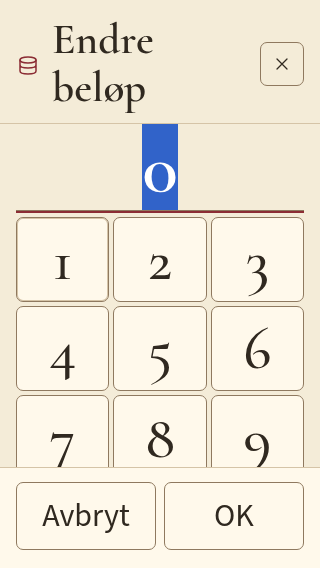
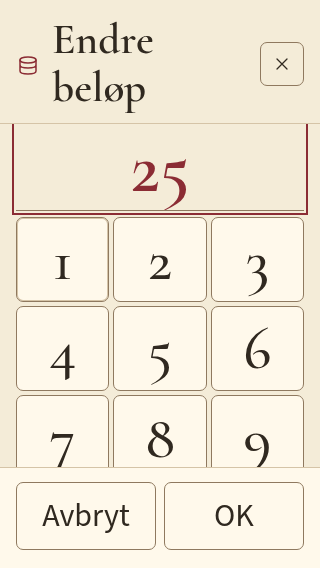
Separate manual HP correction from damage and start keypad empty

Changed region(s): [[0.0312, 0.2095, 0.9688, 0.3891]]

diff --git a/src/ui/number-change-dialog.ts b/src/ui/number-change-dialog.ts
@@ -29,21 +29,22 @@ export function numberChangeDialog(options:NumberChangeOptions) {
  const d=document.createElement('dialog');d.className='number-change-dialog';d.setAttribute('aria-labelledby','number-change-title');
  const scale=options.decimal?100:1;
  let whole=0,fraction=0,pending=false,editor:WheelKey|null=null;
+ let draft='',replaceAll=false,entryStart={whole:0,fraction:0};
  const format=(value:number)=>options.decimal?`${value<0?'−':''}${Math.floor(Math.abs(value)/100)},${String(Math.abs(value)%100).padStart(2,'0')}`:String(value);
  const labels:Record<WheelKey,string>={whole:options.decimal?(options.wholeLabel??'Heltall'):'Endring',fraction:options.fractionLabel??'Hundredeler'};
- d.innerHTML=`<form novalidate><div class="dialog-heading"><span class="number-title-icon" aria-hidden="true">${icon(options.icon??'emblem')}</span><h2 id="number-change-title" tabindex="-1">${esc(options.title??`Endre ${options.name}`)}</h2><button type="button" class="dialog-close" data-dismiss aria-label="Avbryt endring">${icon('close')}</button></div><div class="number-change-body">${wizardArt(options.icon??'emblem')}<div class="number-comparison" aria-live="polite"><span class="number-before"><small>Før</small><b></b><span data-detail></span></span><span class="number-result-arrow" aria-hidden="true">→</span><span class="number-after"><small>Etter</small><b></b><span data-detail></span></span></div><div class="number-control-area"><div class="change-wheels"></div><section class="number-entry-panel" aria-label="Skriv tallet" hidden><div class="number-entry-toolbar"><button type="button" class="number-entry-back" aria-label="Tilbake til hjul">${icon('arrow')}</button><div class="number-entry-tabs" ${options.decimal?'':'hidden'}><button type="button" data-edit-wheel="whole">${esc(labels.whole)}</button><button type="button" data-edit-wheel="fraction">${esc(labels.fraction)}</button></div></div><input class="number-entry-input" type="text" readonly inputmode="none" autocomplete="off" spellcheck="false"><div class="number-keypad" role="group" aria-label="Talltaster">${['1','2','3','4','5','6','7','8','9','±','0','⌫'].map(key=>`<button type="button" data-key="${key}" aria-label="${key==='±'?'Bytt fortegn':key==='⌫'?'Slett siffer':key}">${key}</button>`).join('')}</div></section></div><p class="number-help">Sveip opp eller ned. Trykk på midttallet for å skrive.</p><p class="number-breakdown" aria-live="polite"></p><p class="number-change-error" role="alert"></p></div><div class="dialog-actions"><button type="button" data-dismiss>Avbryt</button><button type="submit">OK</button></div></form>`;
+ d.innerHTML=`<form novalidate><div class="dialog-heading"><span class="number-title-icon" aria-hidden="true">${icon(options.icon??'emblem')}</span><h2 id="number-change-title" tabindex="-1">${esc(options.title??`Endre ${options.name}`)}</h2><button type="button" class="dialog-close" data-dismiss aria-label="Avbryt endring">${icon('close')}</button></div><div class="number-change-body">${wizardArt(options.icon??'emblem')}<div class="number-comparison" aria-live="polite"><span class="number-before"><small>Før</small><b></b><span data-detail></span></span><span class="number-result-arrow" aria-hidden="true">→</span><span class="number-after"><small>Etter</small><b></b><span data-detail></span></span></div><div class="number-control-area"><div class="change-wheels"></div><section class="number-entry-panel" aria-label="Skriv tallet" hidden><div class="number-entry-toolbar"><button type="button" class="number-entry-back" aria-label="Tilbake til hjul">${icon('arrow')}</button><div class="number-entry-tabs" ${options.decimal?'':'hidden'}><button type="button" data-edit-wheel="whole">${esc(labels.whole)}</button><button type="button" data-edit-wheel="fraction">${esc(labels.fraction)}</button></div></div><div class="number-entry-value" role="textbox" aria-readonly="true" aria-multiline="false" tabindex="0"></div><div class="number-keypad" role="group" aria-label="Talltaster">${['1','2','3','4','5','6','7','8','9','±','0','⌫'].map(key=>`<button type="button" data-key="${key}" aria-label="${key==='±'?'Bytt fortegn':key==='⌫'?'Slett siffer':key}">${key}</button>`).join('')}</div></section></div><p class="number-help">Sveip opp eller ned. Trykk på midttallet for å skrive.</p><p class="number-breakdown" aria-live="polite"></p><p class="number-change-error" role="alert"></p></div><div class="dialog-actions"><button type="button" data-dismiss>Avbryt</button><button type="submit">OK</button></div></form>`;
  document.body.append(d);
  const error=d.querySelector<HTMLElement>('.number-change-error')!,submit=d.querySelector<HTMLButtonElement>('[type=submit]')!;
- const wheelArea=d.querySelector<HTMLElement>('.change-wheels')!,panel=d.querySelector<HTMLElement>('.number-entry-panel')!,input=panel.querySelector<HTMLInputElement>('input')!;
+ const wheelArea=d.querySelector<HTMLElement>('.change-wheels')!,panel=d.querySelector<HTMLElement>('.number-entry-panel')!,entry=panel.querySelector<HTMLElement>('.number-entry-value')!;
  const delta=()=>Number(BigInt(whole)*BigInt(scale)+BigInt(fraction));
  const measure=document.createElement('canvas').getContext('2d')!;
  const fitComparison=()=>{
   if(!d.isConnected)return;
-  d.querySelectorAll<HTMLElement>('.number-comparison b').forEach(value=>{
+  d.querySelectorAll<HTMLElement>('.number-comparison b,.number-entry-value').forEach(value=>{
    value.style.fontSize='';const style=getComputedStyle(value);
    measure.font=`${style.fontWeight} ${style.fontSize} ${style.fontFamily}`;
-   const width=measure.measureText(value.textContent??'').width;
-   if(width>value.clientWidth&&value.clientWidth>0)value.style.fontSize=`${Math.max(16,parseFloat(style.fontSize)*value.clientWidth/width*.98)}px`;
+   const width=measure.measureText(value.textContent??'').width,available=value.clientWidth-parseFloat(style.paddingLeft)-parseFloat(style.paddingRight);
+   if(width>available&&available>0)value.style.fontSize=`${Math.max(16,parseFloat(style.fontSize)*available/width*.98)}px`;
   });
  };
  const comparisonObserver=new ResizeObserver(fitComparison);comparisonObserver.observe(d.querySelector('.number-comparison')!);
@@ -51,7 +52,7 @@ export function numberChangeDialog(options:NumberChangeOptions) {
  const current=(which:WheelKey)=>which==='whole'?whole:fraction;
  const valid=()=>{
   const b=changeBounds(options.original,options);
-  return (!editor||parseWheelInteger(input.value)!==null)&&delta()>=b.min&&delta()<=b.max&&Number.isSafeInteger(delta());
+  return (!editor||draft===''||parseWheelInteger(draft)!==null)&&delta()>=b.min&&delta()<=b.max&&Number.isSafeInteger(delta());
  };
  const update=()=>{
   const result=changeResult(options.original,delta());
@@ -77,21 +78,22 @@ export function numberChangeDialog(options:NumberChangeOptions) {
  const flush=()=>{
   wheels.forEach(w=>w.stop());
   if(editor===null)return true;
-  const parsed=parseWheelInteger(input.value);
-  if(parsed===null){
+  const parsed=draft===''?null:parseWheelInteger(draft);
+  if(draft!==''&&parsed===null){
    error.textContent='Skriv et heltall, med eventuelt + eller − foran. Komma og desimalpunkt kan ikke brukes i ett hjul.';
-   input.setAttribute('aria-invalid','true');return false;
+   entry.setAttribute('aria-invalid','true');return false;
   }
-  set(editor,parsed);input.removeAttribute('aria-invalid');
+  if(parsed!==null)set(editor,parsed);entry.removeAttribute('aria-invalid');
   editor=null;panel.hidden=true;wheelArea.hidden=false;drawAll();update();return true;
  };
  const edit=(which:WheelKey)=>{
   if(pending)return;
   if(editor!==null&&!flush())return;
   wheels.forEach(w=>w.stop());editor=which;
-  input.setAttribute('aria-label',labels[which]);input.value=String(current(which));
+  entryStart={whole,fraction};draft='';replaceAll=false;
+  entry.setAttribute('aria-label',labels[which]);entry.textContent='';entry.removeAttribute('aria-invalid');
   panel.querySelectorAll<HTMLButtonElement>('[data-edit-wheel]').forEach(b=>b.setAttribute('aria-pressed',String(b.dataset.editWheel===which)));
-  wheelArea.hidden=true;panel.hidden=false;input.focus({preventScroll:true});input.select();update();
+  wheelArea.hidden=true;panel.hidden=false;entry.focus({preventScroll:true});update();
  };
  function wheel(which:WheelKey){
   const label=labels[which],shell=document.createElement('div');shell.className='change-wheel';
@@ -155,38 +157,42 @@ export function numberChangeDialog(options:NumberChangeOptions) {
  }
  wheel('whole');if(options.decimal)wheel('fraction');
 
- /** Readonly prevents the OS keyboard. Physical keys and the button pad share the same text draft. */
- const replaceSelection=(text:string,backspace=false,forwardDelete=false)=>{
+ /** A plain, non-selectable display avoids native selection handles and the OS keyboard. */
+ const syncDraft=()=>{
+  entry.textContent=draft;
+  if(draft===''){
+   ({whole,fraction}=entryStart);error.textContent='';entry.removeAttribute('aria-invalid');update();
+  }else{
+   const parsed=parseWheelInteger(draft);
+   if(parsed!==null){entry.removeAttribute('aria-invalid');set(editor!,parsed);}else update();
+  }
+  entry.focus({preventScroll:true});
+ };
+ const type=(text:string,backspace=false)=>{
   if(pending||editor===null)return;
-  let start=input.selectionStart??input.value.length,end=input.selectionEnd??start;
-  if(start===end&&backspace)start=Math.max(0,start-1);
-  if(start===end&&forwardDelete)end=Math.min(input.value.length,end+1);
-  const next=input.value.slice(0,start)+text+input.value.slice(end);
+  const next=replaceAll?text:backspace?draft.slice(0,-1):draft+text;
   if(next.length>64)return;
-  input.value=next;input.focus({preventScroll:true});input.setSelectionRange(start+text.length,start+text.length);
-  const parsed=parseWheelInteger(next);
-  if(parsed!==null)set(editor,parsed);else update();
+  draft=next;replaceAll=false;syncDraft();
  };
  const toggleSign=()=>{
   if(pending||editor===null)return;
-  input.value=input.value.startsWith('-')?input.value.slice(1):'-'+input.value.replace(/^\+/,'');
-  const parsed=parseWheelInteger(input.value);if(parsed!==null)set(editor,parsed);else update();
-  input.focus({preventScroll:true});input.setSelectionRange(input.value.length,input.value.length);
+  draft=draft.startsWith('-')?draft.slice(1):'-'+draft.replace(/^\+/,'');replaceAll=false;syncDraft();
  };
  panel.querySelectorAll<HTMLButtonElement>('[data-key]').forEach(button=>{
   button.onpointerdown=e=>e.preventDefault();
-  button.onclick=()=>button.dataset.key==='±'?toggleSign():replaceSelection(button.dataset.key==='⌫'?'':button.dataset.key!,button.dataset.key==='⌫');
+  button.onclick=()=>button.dataset.key==='±'?toggleSign():type(button.dataset.key==='⌫'?'':button.dataset.key!,button.dataset.key==='⌫');
  });
  const back=panel.querySelector<HTMLButtonElement>('.number-entry-back')!;
  back.onpointerdown=e=>e.preventDefault();back.onclick=()=>{const active=editor;if(flush()&&active)wheels.get(active)!.value.focus({preventScroll:true});};
  panel.querySelectorAll<HTMLButtonElement>('[data-edit-wheel]').forEach(button=>{button.onpointerdown=e=>e.preventDefault();button.onclick=()=>edit(button.dataset.editWheel as WheelKey);});
- input.onkeydown=e=>{
+ entry.onkeydown=e=>{
   if(pending){e.preventDefault();return;}
-  if(e.key==='Enter'){e.preventDefault();back.click();}
-  else if(e.key==='Backspace'||e.key==='Delete'){e.preventDefault();replaceSelection('',e.key==='Backspace',e.key==='Delete');}
-  else if(e.key.length===1&&!e.ctrlKey&&!e.metaKey&&!e.altKey){e.preventDefault();replaceSelection(e.key);}
+  if((e.ctrlKey||e.metaKey)&&e.key.toLowerCase()==='a'){e.preventDefault();replaceAll=true;}
+  else if(e.key==='Enter'){e.preventDefault();back.click();}
+  else if(e.key==='Backspace'||e.key==='Delete'){e.preventDefault();type('',true);}
+  else if(e.key.length===1&&!e.ctrlKey&&!e.metaKey&&!e.altKey){e.preventDefault();type(e.key);}
  };
- input.onpaste=e=>{e.preventDefault();replaceSelection(e.clipboardData?.getData('text/plain')??'');};
+ entry.onpaste=e=>{e.preventDefault();type(e.clipboardData?.getData('text/plain')??'');};
 
  let unlocked=false;
  const unlock=()=>{

diff --git a/tests/e2e/number-corrections.spec.ts b/tests/e2e/number-corrections.spec.ts
@@ -1,0 +1,41 @@
+import {test,expect} from '@playwright/test';
+import {createCharacter,fillField,finish,menuAction,wheelEntry} from './helpers';
+
+test('HP correction ignores temporary HP in both directions, clamps to HP limits and supports cancel and undo',async({page})=>{
+ await createCharacter(page);await page.getByRole('button',{name:'Combat',exact:true}).click();
+ await page.locator('[data-action="hp"]').click();await wheelEntry(page,'Endring','-5');await finish(page);
+ await page.locator('[data-action="temp-hp"]').click();await fillField(page,'Temporary HP','3');await finish(page);
+ const d=page.locator('.number-change-dialog');
+ await page.locator('[data-action="hp"]').click();await wheelEntry(page,'Endring','-5');
+ await expect(d.locator('.number-after b')).toHaveText('2');
+ await page.screenshot({path:test.info().outputPath('hp-correction-390.png')});
+ await d.getByRole('button',{name:'Avbryt',exact:true}).click();
+ await expect(page.locator('[data-action="hp"]')).toContainText('7 / 12');
+ await page.locator('[data-action="hp"]').click();await wheelEntry(page,'Endring','-5');await finish(page);
+ await expect(page.locator('[data-action="hp"]')).toContainText('2 / 12');await expect(page.locator('[data-action="temp-hp"]')).toContainText('3');
+ await menuAction(page,'Angre siste endring');await expect(page.locator('[data-action="hp"]')).toContainText('7 / 12');await expect(page.locator('[data-action="temp-hp"]')).toContainText('3');
+ await page.locator('[data-action="hp"]').click();await wheelEntry(page,'Endring','-100');await finish(page);
+ await expect(page.locator('[data-action="hp"]')).toContainText('0 / 12');await expect(page.locator('[data-action="temp-hp"]')).toContainText('3');
+ await page.locator('[data-action="hp"]').click();await wheelEntry(page,'Endring','100');await finish(page);
+ await expect(page.locator('[data-action="hp"]')).toContainText('12 / 12');await expect(page.locator('[data-action="temp-hp"]')).toContainText('3');
+ await page.reload();await page.getByRole('button',{name:'Combat',exact:true}).click();await expect(page.locator('[data-action="hp"]')).toContainText('12 / 12');await expect(page.locator('[data-action="temp-hp"]')).toContainText('3');
+});
+
+test('manual entry starts blank without selecting text; empty entry retains the wheel choice and new digits replace it',async({page})=>{
+ await createCharacter(page);await page.locator('[data-action="money"]').click();
+ const d=page.locator('.number-change-dialog');await wheelEntry(page,'GP','6');
+ await d.getByRole('button',{name:'Skriv inn GP',exact:true}).click();
+ const value=d.getByRole('textbox',{name:'GP',exact:true});
+ await expect(value).toHaveText('');expect(await value.evaluate(el=>el.tagName)).toBe('DIV');
+ await expect(d.locator('input,textarea,[contenteditable="true"]')).toHaveCount(0);
+ await expect(d.locator('.number-after b')).toHaveText('6,00');
+ await d.getByRole('button',{name:'Tilbake til hjul',exact:true}).click();
+ await expect(d.getByRole('spinbutton',{name:'Tallhjul: GP',exact:true})).toHaveAttribute('aria-valuenow','6');
+ await d.getByRole('button',{name:'Skriv inn GP',exact:true}).click();
+ await d.locator('[data-key="2"]').click();await expect(value).toHaveText('2');await expect(d.locator('.number-after b')).toHaveText('2,00');
+ await page.screenshot({path:test.info().outputPath('typed-keypad-390.png')});
+ await d.locator('[data-key="⌫"]').click();await expect(value).toHaveText('');await expect(d.locator('.number-after b')).toHaveText('6,00');
+ await value.dispatchEvent('pointerdown',{pointerType:'touch'});expect(await value.evaluate(el=>getComputedStyle(el).userSelect)).toBe('none');
+ await page.screenshot({path:test.info().outputPath('blank-keypad-390.png')});
+ await finish(page);await page.locator('[data-action="money"]').click();await expect(d.locator('.number-before b')).toHaveText('6,00');
+});

diff --git a/tests/e2e/design.spec.ts b/tests/e2e/design.spec.ts
@@ -64,7 +64,7 @@ test('corner marks clickability without a different status surface and item stat
 });
 
 test('the signed number wheel scrolls down to damage, keeps the delta and supports undo',async({page})=>{
- await fixture(page);await page.getByRole('button',{name:'Combat',exact:true}).click();await page.locator('[data-action="hp"]').click();
+ await fixture(page);await page.getByRole('button',{name:'Combat',exact:true}).click();await page.getByRole('button',{name:'Ta skade',exact:true}).click();
  const wheel=page.getByRole('spinbutton',{name:'Tallhjul: Endring',exact:true});
  await wheel.hover();await page.mouse.wheel(0,352);await expect(wheel).toHaveAttribute('aria-valuenow','-8');
  await page.waitForTimeout(300);await expect(wheel).toHaveAttribute('aria-valuenow','-8');
@@ -79,9 +79,9 @@ test('HP keyboard, bounds and cancellation preserve the pending transaction',asy
  await fixture(page);await page.getByRole('button',{name:'Combat',exact:true}).click();await page.locator('[data-action="hp"]').click();
  const wheel=page.getByRole('spinbutton',{name:'Tallhjul: Endring',exact:true});
  await wheel.focus();await page.keyboard.press('ArrowDown');await expect(wheel).toHaveAttribute('aria-valuenow','-1');
- await page.keyboard.press('Home');await expect(wheel).toHaveAttribute('aria-valuenow','-33');await expect(page.locator('.number-breakdown')).toContainText('HP 28 → 0');
- await page.keyboard.press('End');await expect(wheel).toHaveAttribute('aria-valuenow','10');await expect(page.locator('.number-breakdown')).toContainText('Temporary HP 5 → 5');
- await wheelEntry(page,'Endring','-1000');await expect(wheel).toHaveAttribute('aria-valuenow','-33');
+ await page.keyboard.press('Home');await expect(wheel).toHaveAttribute('aria-valuenow','-28');await expect(page.locator('.number-breakdown')).toContainText('HP 28 → 0');
+ await page.keyboard.press('End');await expect(wheel).toHaveAttribute('aria-valuenow','10');await expect(page.locator('.number-breakdown')).toContainText('Temporary HP endres ikke');
+ await wheelEntry(page,'Endring','-1000');await expect(wheel).toHaveAttribute('aria-valuenow','-28');
  await wheelEntry(page,'Endring','1000');await expect(wheel).toHaveAttribute('aria-valuenow','10');
  await page.keyboard.press('Escape');expect((await readState(page)).hp).toEqual({current:28,max:38,temp:5});
 });
@@ -153,7 +153,7 @@ test('journal components remain readable without overflow at 320/390 pixels and 
 });
 
 test('HP save failure preserves the chosen amount and retry commits once; wheel selection stays visible',async({page})=>{
- await fixture(page);await page.getByRole('button',{name:'Combat',exact:true}).click();await page.locator('[data-action="hp"]').click();
+ await fixture(page);await page.getByRole('button',{name:'Combat',exact:true}).click();await page.getByRole('button',{name:'Ta skade',exact:true}).click();
  const slider=page.getByRole('spinbutton',{name:'Tallhjul: Endring',exact:true});
  await wheelEntry(page,'Endring','-8');await expect(slider).toHaveAttribute('aria-valuenow','-8');
  await page.evaluate(()=>{

diff --git a/tests/e2e/number-review.spec.ts b/tests/e2e/number-review.spec.ts
@@ -8,9 +8,9 @@ test('review: keypad replaces the wheels without moving the comparison or action
  const before=await d.locator('.number-comparison,.dialog-actions').evaluateAll(els=>els.map(e=>e.getBoundingClientRect().y));
  await d.getByRole('button',{name:'Skriv inn GP',exact:true}).click();
  await expect(d.locator('.change-wheels')).toBeHidden();
- const input=d.getByRole('textbox',{name:'GP',exact:true});await expect(input).toHaveAttribute('readonly','');
+ const input=d.getByRole('textbox',{name:'GP',exact:true});await expect(input).toHaveAttribute('aria-readonly','true');
  for(const digit of ['1','2'])await d.locator('.number-keypad').getByRole('button',{name:digit,exact:true}).click();
- await expect(input).toHaveValue('12');
+ await expect(input).toHaveText('12');
  await expect(d.locator('.number-after b')).toHaveText('12,00');
  const after=await d.locator('.number-comparison,.dialog-actions').evaluateAll(els=>els.map(e=>e.getBoundingClientRect().y));expect(after).toEqual(before);
  await d.getByRole('button',{name:'Tilbake til hjul',exact:true}).click();
@@ -18,7 +18,7 @@ test('review: keypad replaces the wheels without moving the comparison or action
  await d.getByRole('button',{name:'Skriv inn CP',exact:true}).click();
  await context.grantPermissions(['clipboard-read','clipboard-write']);await page.evaluate(()=>navigator.clipboard.writeText('-20'));
  await d.getByRole('textbox',{name:'CP',exact:true}).press('ControlOrMeta+A');await d.getByRole('textbox',{name:'CP',exact:true}).press('ControlOrMeta+V');
- await expect(d.getByRole('textbox',{name:'CP',exact:true})).toHaveValue('-20');await finish(page);
+ await expect(d.getByRole('textbox',{name:'CP',exact:true})).toHaveText('-20');await finish(page);
  await page.locator('[data-action="money"]').click();await expect(d.locator('.number-before b')).toHaveText('11,80');
 });
 
@@ -85,5 +85,7 @@ test('review: narrow mobile keypad stays visible without an OS keyboard and impo
  await page.screenshot({path:test.info().outputPath('money-320-text.png')});
  await d.getByRole('button',{name:'Skriv inn GP',exact:true}).click();const input=d.getByRole('textbox',{name:'GP',exact:true});
  expect(await input.evaluate(el=>el.clientHeight>=parseFloat(getComputedStyle(el).fontSize))).toBe(true);
- await input.scrollIntoViewIfNeeded();await expect(input).toBeInViewport();await page.screenshot({path:test.info().outputPath('keypad-320-text.png')});
+ await input.pressSequentially('25');await input.scrollIntoViewIfNeeded();await expect(input).toBeInViewport();await page.screenshot({path:test.info().outputPath('keypad-320-text.png')});
+ await input.press('ControlOrMeta+A');await input.pressSequentially('90071992547409');
+ expect(await input.evaluate(el=>el.scrollWidth<=el.clientWidth+1)).toBe(true);
 });

diff --git a/src/ui/hp-control.ts b/src/ui/hp-control.ts
@@ -1,11 +1,13 @@
 import type {Character} from '../domain/model';
 import {hpAfterChange} from '../domain/derived';
 import {numberChangeDialog} from './number-change-dialog';
-/** Damage remains a single existing domain operation including temporary HP absorption. */
-export function changeHp(hp:Character['hp'],save:(delta:number)=>Promise<void>,options:{damageOnly?:boolean}={}){
- const total=hp.current+hp.temp;
- return numberChangeDialog({name:'HP',title:options.damageOnly?'Ta skade':'Endre HP',icon:'healing',original:total,min:0,max:options.damageOnly?total:Math.max(total,hp.max+hp.temp),
-  comparison:delta=>{const after=hpAfterChange(hp,delta);return {before:{value:String(hp.current),detail:`av ${hp.max} HP · ${hp.temp} temp HP`},after:{value:String(after.current),detail:`av ${hp.max} HP · ${after.temp} temp HP`}};},
-  preview:delta=>{const after=hpAfterChange(hp,delta);return `HP ${hp.current} → ${after.current} / ${hp.max} · Temporary HP ${hp.temp} → ${after.temp}. Skade bruker Temporary HP først.`;},
-  onConfirm:async(_result,delta)=>{if(delta)await save(delta);}});
+/** Manual corrections touch ordinary HP only; damage consumes temporary HP first. */
+export function changeHp(hp:Character['hp'],save:(next:Character['hp'],delta:number)=>Promise<void>,options:{damageOnly?:boolean}={}){
+ const damage=options.damageOnly??false;
+ const after=(delta:number)=>damage?hpAfterChange(hp,delta):{...hp,current:Math.max(0,Math.min(hp.max,hp.current+delta))};
+ const detail=(value:Character['hp'])=>`av ${hp.max} HP${damage?` · ${value.temp} temp HP`:''}`;
+ return numberChangeDialog({name:'HP',title:damage?'Ta skade':'Endre HP',icon:'healing',original:damage?hp.current+hp.temp:hp.current,min:0,max:damage?hp.current+hp.temp:hp.max,
+  comparison:delta=>({before:{value:String(hp.current),detail:detail(hp)},after:{value:String(after(delta).current),detail:detail(after(delta))}}),
+  preview:delta=>`HP ${hp.current} → ${after(delta).current} / ${hp.max}. ${damage?`Temporary HP ${hp.temp} → ${after(delta).temp}. Skade bruker Temporary HP først.`:'Korrigerer bare vanlig HP. Temporary HP endres ikke.'}`,
+  onConfirm:async(_result,delta)=>{if(delta)await save(after(delta),delta);}});
 }

diff --git a/src/style.css b/src/style.css
@@ -324,7 +324,7 @@ dialog.number-change-dialog{position:fixed;inset:0;max-height:none;overflow:hidd
 .number-entry-tabs{display:flex;gap:8px;flex:1;justify-content:end}
 .number-entry-tabs button{padding:4px 16px;min-width:60px;line-height:1.1}
 .number-entry-tabs [aria-pressed=true]{border-color:var(--accent);background:var(--panel);font-weight:600}
-input.number-entry-input{width:100%;min-width:0;max-width:none;height:100%;min-height:48px;padding:0 6px;border:0;border-bottom:1px solid var(--line);border-radius:0;box-shadow:none;background:transparent;color:var(--accent);font:600 2.3rem/1 Journal;text-align:center;caret-color:var(--accent);touch-action:manipulation}
+.number-entry-value{width:100%;min-width:0;max-width:none;height:100%;min-height:48px;padding:0 6px;border:0;border-bottom:1px solid var(--line);border-radius:0;box-shadow:none;background:transparent;color:var(--accent);font:600 2.3rem/1 Journal;text-align:center;display:grid;align-items:center;overflow:hidden;white-space:nowrap;user-select:none;-webkit-user-select:none;touch-action:manipulation}
 .number-keypad{display:grid;grid-template-columns:repeat(3,minmax(0,1fr));grid-template-rows:repeat(4,minmax(44px,1fr));gap:4px}
 .number-keypad button{padding:0;min-width:0;background:var(--panel);font:500 1.9rem Journal;touch-action:manipulation}
 .number-change-error{color:var(--danger);font-weight:600;max-width:50ch;flex-shrink:0}.number-change-error:empty{display:none}
@@ -343,4 +343,5 @@ input.number-value::-webkit-inner-spin-button,input.number-value::-webkit-outer-
  .number-change-dialog .dialog-heading{padding-bottom:12px}
 }
 
-input.number-entry-input:focus{outline:none;box-shadow:0 2px 0 var(--accent)}
+.number-entry-value:focus{outline:none}
+.number-entry-value:focus-visible{outline:2px solid var(--accent);outline-offset:2px}

diff --git a/tests/e2e/foundations.spec.ts b/tests/e2e/foundations.spec.ts
@@ -113,13 +113,13 @@ test('damage and temp HP only in Combat, preview/cancel and atomic undo', async 
   await page.getByRole('button',{name:'Combat',exact:true}).click();
   await page.locator('[data-action="temp-hp"]').click();
   await fillField(page,'Temporary HP','5'); await save(page);
-  await page.locator('[data-action="hp"]').click();
+  await page.getByRole('button',{name:'Ta skade',exact:true}).click();
   await fillField(page,'HP-endring i tall','-8');
   await expect(page.locator('.number-breakdown')).toContainText('HP 42 → 39');
   await expect(page.locator('.number-breakdown')).toContainText('Temporary HP 5 → 0');
   await closeEditor(page);
   await expect(page.locator('[data-action="hp"]')).toContainText('42 / 42');
-  await page.locator('[data-action="hp"]').click();
+  await page.getByRole('button',{name:'Ta skade',exact:true}).click();
   await fillField(page,'HP-endring i tall','-8');
   await page.getByRole('button',{name:'OK',exact:true}).click();
   await expect(page.locator('[data-action="hp"]')).toContainText('39 / 42');

diff --git a/src/main.ts b/src/main.ts
@@ -33,7 +33,7 @@ import { instantiateEquipment } from './domain/catalog';
 import { historyView } from './ui/history';
 import { modifiers, signed } from './domain/modifiers';
 import { levelUpCharacter } from './domain/level-up';
-import { deriveStats, hpAfterItemChange } from './domain/derived';
+import { deriveStats } from './domain/derived';
 import { escapeHtml as esc, field, select } from './ui/html';
 import './style.css';
 
@@ -274,8 +274,8 @@ function levelUp(c: Character) {
   update();
 }
 function editHitPoints(c: Character, damageOnly=false) {
-  changeHp({...c.hp,max:effectiveMaxHp(c)},async delta=>{
-    await saveCharacter({...c,hp:hpAfterItemChange(c,delta)},'hp',`HP endret (${delta>0?'+':''}${delta})`);
+  changeHp({...c.hp,max:effectiveMaxHp(c)},async (hp,delta)=>{
+    await saveCharacter({...c,hp:{...hp,max:c.hp.max}},'hp',`HP endret (${delta>0?'+':''}${delta})`);
     message='';await refresh();
   },{damageOnly});
 }

diff --git a/docs/CHARACTER_WORKSPACE.md b/docs/CHARACTER_WORKSPACE.md
@@ -502,7 +502,7 @@ På 390 px er Før/Etter, to parallelle hjul, midttrykk og separate OK/Avbryt sy
 
 ## Før-koding-kontroll: oppfølging av #25 etter fysisk brukerreview
 
-Brukerens uttrykkelige bestilling følger gjennomgangen i denne tråden. Forrige publiserte utgave `dfe853e` er prøvd på fysisk iOS som installert webapp med eget ikon: brukeren bekrefter første trykk på knapper uten det tidligere fokusproblemet, og korrekt temp-HP-absorpsjon. Dette gjelder den prøvde utgaven og erstatter ikke ny fysisk kontroll etter følgende endringer. iOS-versjon og separat nettlesersammenligning er ikke oppgitt.
+Denne kontrollen beskriver `17cccab`. Nyere avklaring om HP-korreksjon og tom tallvisning står i neste seksjon. Brukerens uttrykkelige bestilling følger gjennomgangen i denne tråden. Forrige publiserte utgave `dfe853e` er prøvd på fysisk iOS som installert webapp med eget ikon: brukeren bekrefter første trykk på knapper uten det tidligere fokusproblemet, og korrekt temp-HP-absorpsjon. Dette gjelder den prøvde utgaven og erstatter ikke ny fysisk kontroll etter følgende endringer. iOS-versjon og separat nettlesersammenligning er ikke oppgitt.
 
 Nyeste avklaring går foran eldre betjeningsdetaljer: eget tallpanel erstatter hjulområdet ved midttrykk; systemtastaturet skal ikke skjule tallet. Spinnerbåndet og popupen skal stå stille. Etter er den viktigste tallvisningen, Før/Etter og hjultall blir større; generell Endring-etikett tas bort, mens pengekolonnene heter GP/CP. Overskriften får ikke automatisk rød fokusramme, og tastaturbetjening beholder synlig fokus. Hjelpetekstens størrelse beholdes.
 
@@ -524,3 +524,21 @@ Før/Etter og tallet i input er inspisert på faktiske Chromium-bilder. Etter er
 Båndet ligger som et eget lag utenfor scroll-sporet. Native sveip fra midttallet og utenfor hjulene er prøvd, også etterrulling fulgt av inntasting. Underliggende veivisernoder, øvrige svar, utkast og scroll beholdes. Rullelåsen gjenoppretter bare stilene den selv endret; øvrig lokal tilstand beholdes. Pinch-zoom er ikke deaktivert. Kontroller og bilder ligger i [produktbildene](reviews/number-dialog/README.md).
 
 Den tidligere positive fysiske iOS-observasjonen gjelder `dfe853e`. Nytt tallpanel og rullelås er teknisk verifisert i Chromium; fysisk etterkontroll av den nye publiserte utgaven og brukerens uttrykkelige mergegodkjenning gjenstår. Ta skade er fortsatt en parameterstyrt snarvei til HP-endring, ikke en ferdig skadekalkulator.
+
+## Før-koding-kontroll: HP-korreksjon og tom tallvisning i #25
+
+Nyeste uttrykkelige bestilling presiserer HP-pillen som manuell retting av vanlig HP, uavhengig av temp HP. Ta skade beholder skadeberegningen. Tallpanelet skal åpne tomt uten inputfelt/markering; eksisterende hjulvalg og Før/Etter beholdes frem til første inntasting. Det er fortsatt endringsbeløp som tastes, ikke en ny absoluttverdi. Dette erstatter de eldre formuleringene om HP-pillens skadeabsorpsjon og forhåndsutfylt input.
+
+| Flyt / scenario | Kilde og karaktertilstand | Forventet spilleropplevelse | Testreferanse og kjøreresultat | Mobilgjennomgang / forskjell fra referanse | Status / gjenværende avvik |
+| --- | --- | --- | --- | --- | --- |
+| Manuell HP-korreksjon | Ny brukeravklaring; Alva Fighter1 HP7/12, temp3. Klasse/subclass påvirker ikke rettingen; gjeldende effektiv maks HP er grensen | HP-pille −5 gir HP2/temp3. −100 gir HP0/temp3; +100 gir HP12/temp3. Avbryt bevarer, OK lagrer én endring, Angre gjenoppretter | `number-corrections.spec.ts`: forventningsprøve definert før koding; forhåndsvisning, Avbryt, lagring, grenser, Angre og reload bestått | Brukeren korrigerer tidligere avklaring; dette er papirarkretting, ikke D&D-skade | Bestått i Chromium; fysisk etterkontroll og mergegodkjenning gjenstår |
+| Ta skade | Samme karakter, HP7/12 og temp3; D&D 5e 2014 bruker temp HP først | −5 gir HP5/temp0; positiv endring gir ikke økning. HP/temp HP bekreftes samlet og kan angres | `number-review.spec.ts`, `design.spec.ts` og `foundations.spec.ts`: absorpsjon, grenser, Avbryt, lagringsfeil/retry og Angre bestått med Ta skade-inngangen | Ingen endring i skaderegler | Bestått i Chromium; fysisk etterkontroll og mergegodkjenning gjenstår |
+| Tom tallvisning | Heltall og GP/CP; et hjul er allerede satt til +6 | Midttrykk viser tom, ikke-redigerbar tekstflate uten markering. Før/Etter forblir uendret. Retur/OK uten inntasting beholder hjulvalget. Første siffer erstatter endringsbeløpet; ±, slett, vanlig tastatur og lim inn fungerer. Tømte siffer går tilbake til hjulvalget ved åpning | `number-corrections.spec.ts`: tom åpning, beholdt hjulvalg, første siffer, tømming og direkte OK bestått. Eksisterende tastatur/ekte lim inn/mobilprøver bestått | Ingen native input, caret eller teksthåndtak; ingen ny tastatur-overlay | Bestått i Chromium; fysisk etterkontroll og mergegodkjenning gjenstår |
+
+### Gjennomgang og kontroll av HP-korreksjon / tom tallvisning
+
+Forventningsprøvene feilet på den tidligere implementasjonen (HP ble absorbert av temp HP, og panelet viste forhåndsutfylt input). Etter endringen bestod 55 berørte nettlesertester i syv suiter, 152 enhets-/integrasjonstester og TypeScript/Vite/PWA-produksjonsbygg. Den allerede gjennomførte fulle kontrollen av `17cccab` ble gjenbrukt for øvrige uendrede flyter; ingen ny full lokal suite ble kjørt uten behov. Etter siste breddejustering av tekstvisningen bestod oppfølgingsprøvene 7/7, inkludert lange heltall ved 200 % tekst. GitHub Validate kontrollerer hele sluttcommiten før publisering.
+
+Inspiserte faktiske 390 px-mobilbilder viser HP 7 → 2 med temp HP urørt, tom tallvisning med hjulvalget +6 beholdt i Etter, og første siffer 2 som nytt endringsbeløp uten caret/tekstmarkering/håndtak. Inntastingsflaten er en vanlig ikke-selekterbar tekstvisning, ikke input/contenteditable. Tastatur, Ctrl/Cmd+A og ekte clipboard-paste er testet. 320 px / stor tekst beholder intern rulling og faste hovedknapper. Oppdaterte bilder finnes i [produktgjennomgangen](reviews/number-dialog/README.md).
+
+Normal HP-korreksjon bruker effektiv maks HP som grense, men lagrer fortsatt karakterens opprinnelige grunnmaksimum; temp HP overføres uendret. Ta skade bruker den eksisterende domenefunksjonen for temp-HP-absorpsjon. Hvile-/utstyrseffekter og øvrige skadeoperasjoner er ikke endret. Ingen datamigrering eller nye avhengigheter. Brukerens positive review av `17cccab` er ikke mergegodkjenning; disse siste to rettelsene må etterkontrolleres fysisk før brukerens uttrykkelige godkjenning.

diff --git a/docs/TESTING.md b/docs/TESTING.md
@@ -55,9 +55,9 @@ Fysisk installering og oppdatering på iPhone er ikke dekket av Chromium-testen 
 Prøv den valgte funksjons-PR-en på testadressen over. Kontroller «Testversjon» og PR/commit i appen før test. Bruk «Se etter oppdatering» / «Oppdater appen» ved en eldre utgave; bevar testkarakterene og ta gjerne backup først.
 
 1. **Vanlige tall og nestet redigering:** Meny → Rediger karakter → trykk klassenivå eller maks HP. Dialogen heter «Endre …», viser Før/Etter og starter alltid med 0. Positive tall står over, negative under. Rull, bekreft med OK, og kontroller at bare dette feltet i skjemaet endres. Avbryt/X/Escape skal bevare skjemaet uten tallendringen. Karakteren endres først når du fullfører skjemaet.
-2. **Direkte innskriving:** Trykk midttallet: hjulene erstattes av et eget tallpanel. Bruk talltastene, ± og slett; vanlig tastatur og lim inn støttes også. Pilen viser hjulene igjen, eller du kan trykke OK direkte. Verdien skal ikke skjules av systemtastaturet. Før/Etter og hovedknappene skal beholde plasseringen. Valget og Før/Etter skal stemme; desimalpunkt/komma i ett hjul skal gi forklaring. Store endringer mot klassens 1–20-grense begrenses til nærmeste gyldige resultat. Valgfrie overstyringer kan fortsatt fjernes.
+2. **Direkte innskriving:** Trykk midttallet: hjulene erstattes av et eget tallpanel med tom tallvisning uten markering/håndtak. Før/Etter beholder hjulvalget til du begynner å taste. Retur eller OK uten inntasting skal beholde valget; første siffer erstatter endringsbeløpet. Bruk talltastene, ± og slett; vanlig tastatur og lim inn støttes også. Pilen viser hjulene igjen, eller du kan trykke OK direkte. Verdien skal ikke skjules av systemtastaturet. Før/Etter og hovedknappene skal beholde plasseringen. Valget og Før/Etter skal stemme; desimalpunkt/komma i ett hjul skal gi forklaring. Store endringer mot klassens 1–20-grense begrenses til nærmeste gyldige resultat. Valgfrie overstyringer kan fortsatt fjernes.
 3. **Penger:** Trykk GP-pillen. Fra 0 gir `9 | 80` og `10 | −20` begge 9,80 GP. Fra 10,50 gir `−10 | −50` null. Hundredelshjulet har −99…99; resultatet skal aldri bli negativt. Avbryt bevarer beløpet, OK lagrer, og Angre gjenoppretter.
-4. **HP og beholdninger:** På Combat: før f.eks. 5 temp HP, åpne HP og velg −8. Temp HP brukes først; Før/Etter viser vanlig HP som hovedtall og temp HP separat. HP-pillen kan også hele; Ta skade har egen tittel og tillater bare 0 eller reduksjon, også ved direkte innskriving. OK lagrer én hendelse; Angre gjenoppretter begge delverdier. Fra en beholdningspille åpner tallet i oppslaget dialogen; verdien begrenses til 0…maks og oppslaget er tilgjengelig etterpå.
+4. **HP og beholdninger:** På Combat: med HP 7/12 og temp HP 3 skal HP-pillen med −5 gi HP 2 og beholde temp HP 3. Prøv −100 → HP 0 og +100 → HP 12; temp HP skal være uendret. Angre, og prøv Ta skade med −5: HP 5 og temp HP 0. Ta skade har egen tittel og tillater bare 0 eller reduksjon, også ved direkte innskriving; Før/Etter viser vanlig HP som hovedtall og temp HP separat. OK lagrer én hendelse; Angre gjenoppretter begge delverdier. Fra en beholdningspille åpner tallet i oppslaget dialogen; verdien begrenses til 0…maks og oppslaget er tilgjengelig etterpå.
 5. **Fysisk iPhone – fortsatt nødvendig før merge:** Gjenta langsomme/raske sveip, stopp, midttrykk og direkteinnskriving i installert **My D&D Test**, deretter i vanlig nettleser på samme telefon. Mens tallpanelet er åpent: trykk OK én gang, Avbryt én gang og X én gang i hver sin åpning. Ingen systemtastatur skal dekke panelet. Sveip også over/under/ved siden av hjulene: dialogen skal stå fast og ikke avdekke skjermen under. Hver handling skal virke på første trykk og bare én gang. Kontroller også neste handling i skjemaet, HP ved 0 og smal skjerm/stor tekst. Meld iOS-versjon, nettleser/installert modus, PR/commit og konkret feilforløp ved avvik. Brukeren bekreftet første-trykk-betjening og temp HP i `dfe853e` på installert iOS-webapp; dette er historisk fysisk bevis. Etterkontroller denne nye utgaven; Chromium-testene alene kvitterer ikke ut den nye fysiske betjeningen eller hele #26.
 
 PR-en skal stå åpen til brukeren har testet og uttrykkelig godkjent merge.

diff --git a/docs/DECISIONS.md b/docs/DECISIONS.md
@@ -393,8 +393,8 @@ Nyere avtale om brukerreview erstatter generell delegasjon av automatisk merge f
 
 Brukeren har godkjent og bestilt oppfølgingen i PR #57: Før/Etter og verdiene blir større, Etter prioriteres høyest, spinnerens tall økes litt, og det generelle Endring-navnet fjernes fra den synlige hjulflaten. Pengehjulene heter GP og CP. Hjelpetekstens størrelse beholdes. Overskriften skal ikke vise automatisk rød fokusramme; interaktive tastaturkontroller beholder synlig fokus.
 
-Midttrykk bytter hjulområdet til et eget tallpanel med tall, fortegn og slett. Dette erstatter tidligere bruk av systemtastaturet etter at fysisk iPhone-review viste at det skjulte inputfeltet. Før/Etter og hovedhandlingene beholder plasseringen. Vanlig tastatur/lim inn og grensekontroll støttes. Båndet er fast; bare tallrekken ruller og snapper. Dialogen skal ikke dras ut av viewporten eller avdekke skjermen under ved sveip utenfor hjulet. Innhold kan rulle internt når skjerm/stor tekst krever det; tilgjengelig zoom beholdes.
+Midttrykk bytter hjulområdet til et eget tallpanel med tall, fortegn og slett. Etter ny brukeravklaring åpner panelet tomt og bruker en tekstvisning uten native input/markering. Hjulvalget beholdes uten inntasting; første siffer starter et nytt endringsbeløp. Dette erstatter tidligere bruk av systemtastaturet etter at fysisk iPhone-review viste at det skjulte inputfeltet. Før/Etter og hovedhandlingene beholder plasseringen. Vanlig tastatur/lim inn og grensekontroll støttes. Båndet er fast; bare tallrekken ruller og snapper. Dialogen skal ikke dras ut av viewporten eller avdekke skjermen under ved sveip utenfor hjulet. Innhold kan rulle internt når skjerm/stor tekst krever det; tilgjengelig zoom beholdes.
 
-HP-pillen og Ta skade er ulike innganger. HP-pillen beholder skade/healing. Ta skade beholder navnet og åpner foreløpig den felles komponenten med egen tittel og bare 0/negative endringer, temp-HP-absorpsjon først og minimum 0. Den senere skadekalkulatoren er fortsatt egen funksjon; ingen ny regelmotor innføres her. Vanlig HP og temp HP presenteres separat i Før/Etter.
+HP-pillen og Ta skade er ulike innganger. HP-pillen korrigerer bare vanlig HP mellom 0 og effektiv maks HP og endrer aldri temp HP; dette erstatter den tidligere avklaringen om at HP-pillen bruker skadeabsorpsjon. Ta skade beholder navnet og åpner foreløpig den felles komponenten med egen tittel og bare 0/negative endringer, temp-HP-absorpsjon først og minimum 0. Den senere skadekalkulatoren er fortsatt egen funksjon; ingen ny regelmotor innføres her. Vanlig HP og temp HP presenteres separat i Før/Etter.
 
 Brukeren bekrefter at knapper virket på første trykk i forrige testversjon `dfe853e` på fysisk iOS som installert webapp, samt korrekt temp HP. Den nye betjeningen trenger ny fysisk kontroll. Dette er ikke mergegodkjenning; PR-en beholdes åpen.

diff --git a/README.md b/README.md
@@ -38,7 +38,7 @@ Bruk `CHROMIUM_PATH=/usr/bin/chromium npm run test:e2e` hvis Chromium allerede e
 - Egenskaper/feats med egne handlinger, ressurser og betingede skadeeffekter; strukturerte languages, proficiencies/expertise, skadeegenskaper og tilstandsimmuniteter.
 - Egen Magi-fane med kontekstfiltrerte spells/cantrips, klassebasert forberedelse og automatiske spell-slot/Pact Magic-pools. Hit Dice er enkle tellere, HP føres separat. Lang hvile viser før/etter og lagres samlet med Angre.
 - Illustrerte veivisere med ett spørsmål per skjerm, direkte Ja/Nei, terningknapper og grafisk fremdrift for karakter/egne poster/beholdninger og våpenvarianter. X/Escape bevarer et lokalt utkast som kan fortsettes etter reload; Fullfør bekrefter. Ekstraskade har skadetype fra liste og egen valgfri tekstbetingelse per komponent; navn/merknad alene er mulig. Nytt utstyr registreres som eid, deretter velges I bruk.
-- Tallverdien åpner en felles fullskjermdialog med endring fra 0, før/etter og OK eller Avbryt/X. Midttrykk erstatter hjulene med et eget tallpanel med ± og slett, uten systemtastatur over verdien. Penger har to signerte endringshjul (GP / CP, −99…99 CP) og eksakt CP-lagring. Tallredigering bevarer skjemaet under; HP viser vanlig og temporary HP separat. HP-pillen støtter skade/healing; Ta skade tillater bare reduksjon frem til egen skadekalkulator bygges ut. Se [flyter, faktiske bilder og avgrensning](docs/GUIDED_WORKFLOWS.md).
+- Tallverdien åpner en felles fullskjermdialog med endring fra 0, før/etter og OK eller Avbryt/X. Midttrykk erstatter hjulene med et eget tallpanel med tom tallvisning, ± og slett, uten tekstmarkering eller systemtastatur over verdien. Penger har to signerte endringshjul (GP / CP, −99…99 CP) og eksakt CP-lagring. Tallredigering bevarer skjemaet under; HP viser vanlig og temporary HP separat. HP-pillen korrigerer bare vanlig HP mellom 0 og maks uten å endre temp HP; Ta skade bruker temp HP først og tillater bare reduksjon frem til egen skadekalkulator bygges ut. Se [flyter, faktiske bilder og avgrensning](docs/GUIDED_WORKFLOWS.md).
 - Inspiration, death saves, conditions og exhaustion, lokalt portrett inkludert i JSON-backup.
 - Character/Combat/Magi/Utstyr-navigasjon og offline produksjons-PWA. Våpen i bruk gir beregnet attack/damage og Combat-oppslag, også relevante off-hand-valg. Finesse, ranged/thrown, proficiency/multiclass, håndbruk, faste magiske bonuser og utvalgte Fighting Styles/Martial Arts støttes. Registrerte handlinger og tilgjengelige spells beholdes. Sammensatte effekter er tekst/manuelle tilpasninger; standardhandlinger, avansert skadekalkulator og full SRD-dekning gjenstår. Se [beregningskontrakten](docs/EQUIPMENT.md).
 
